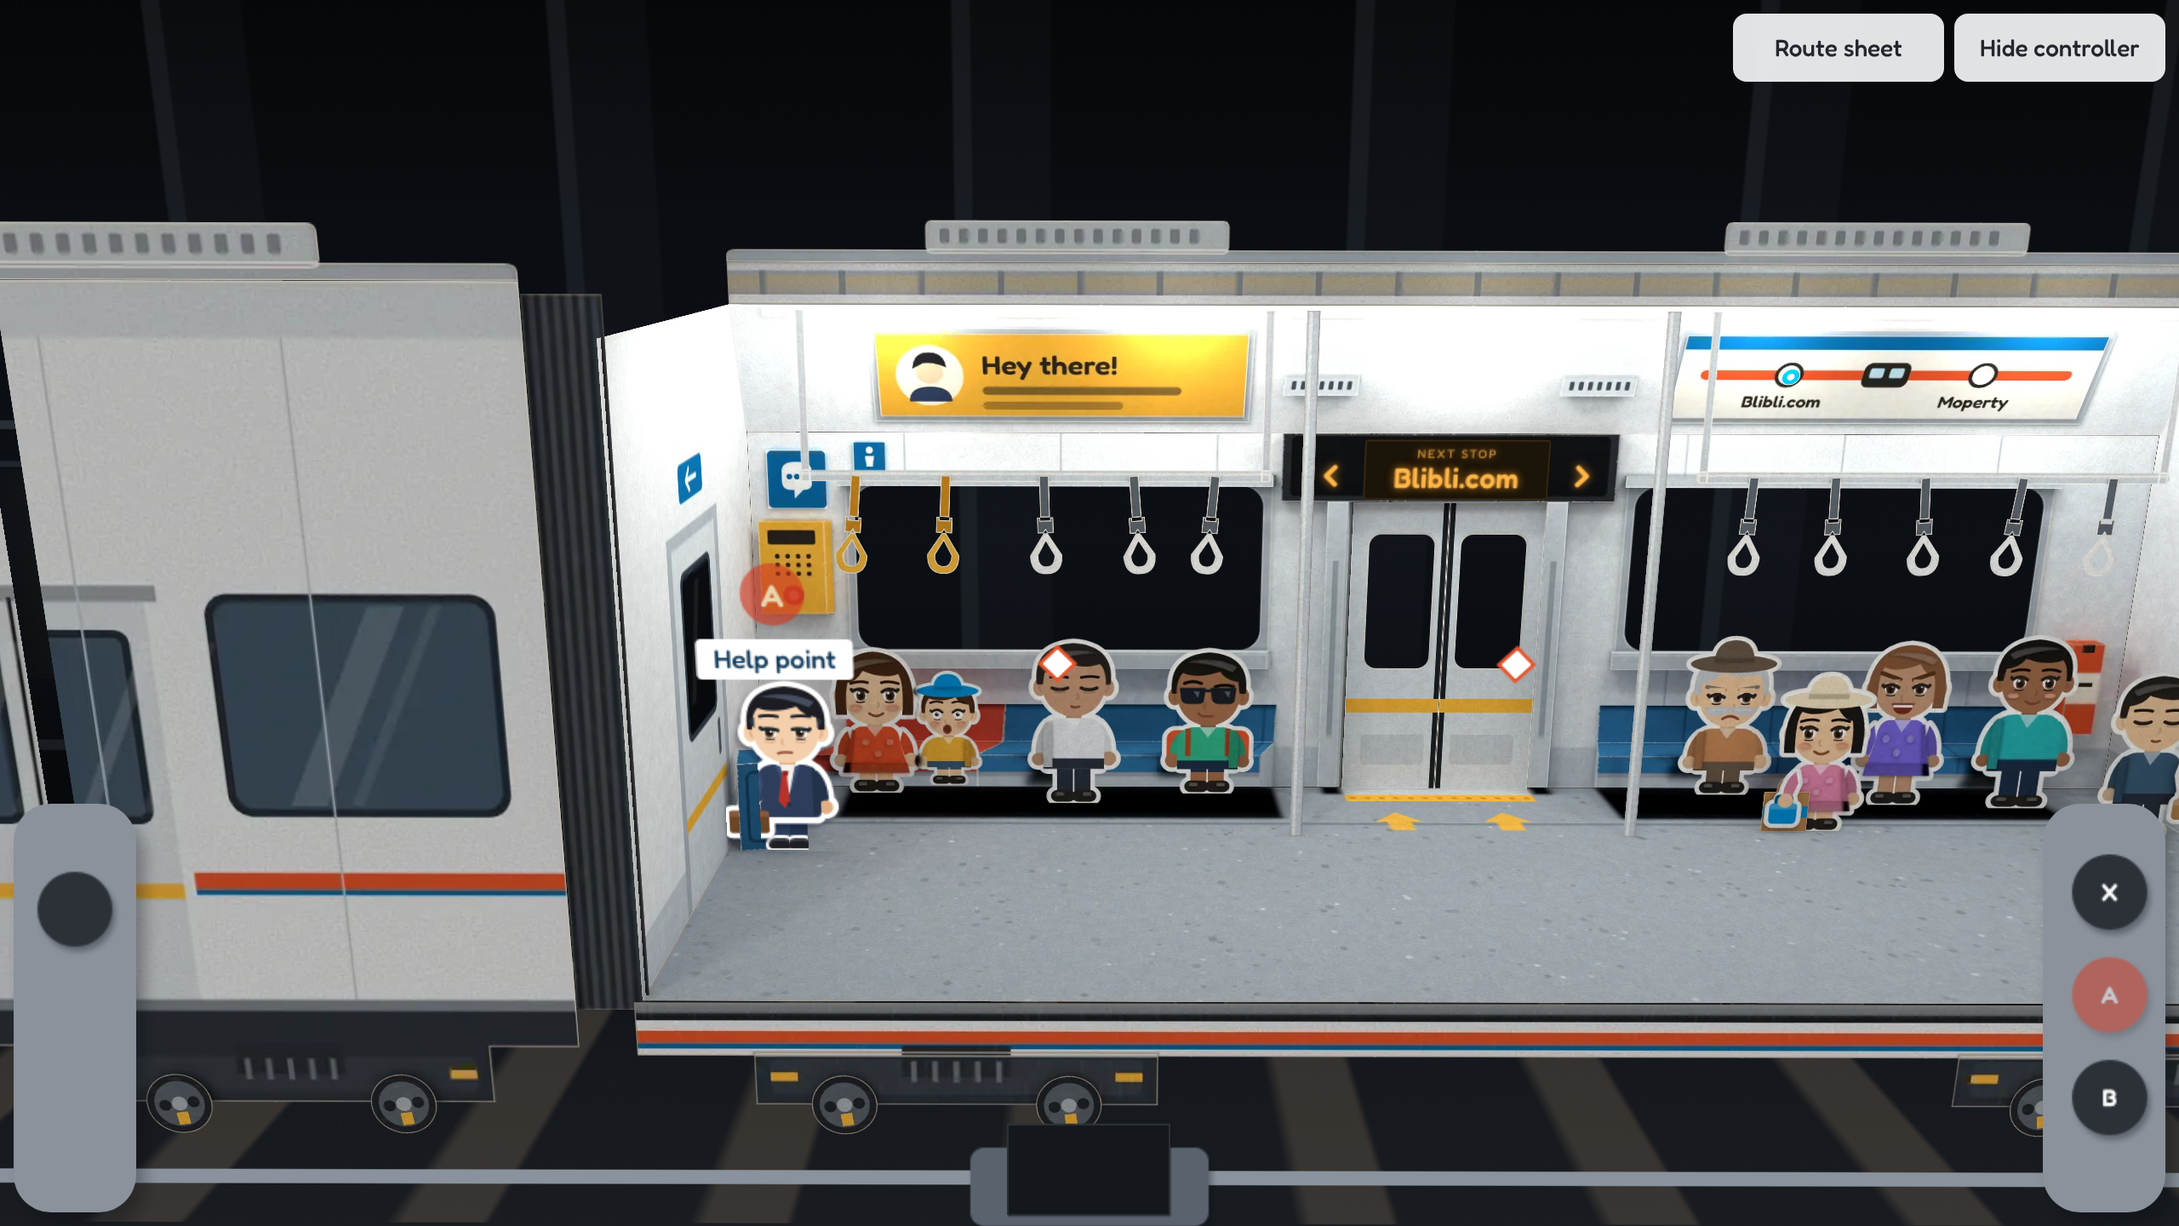
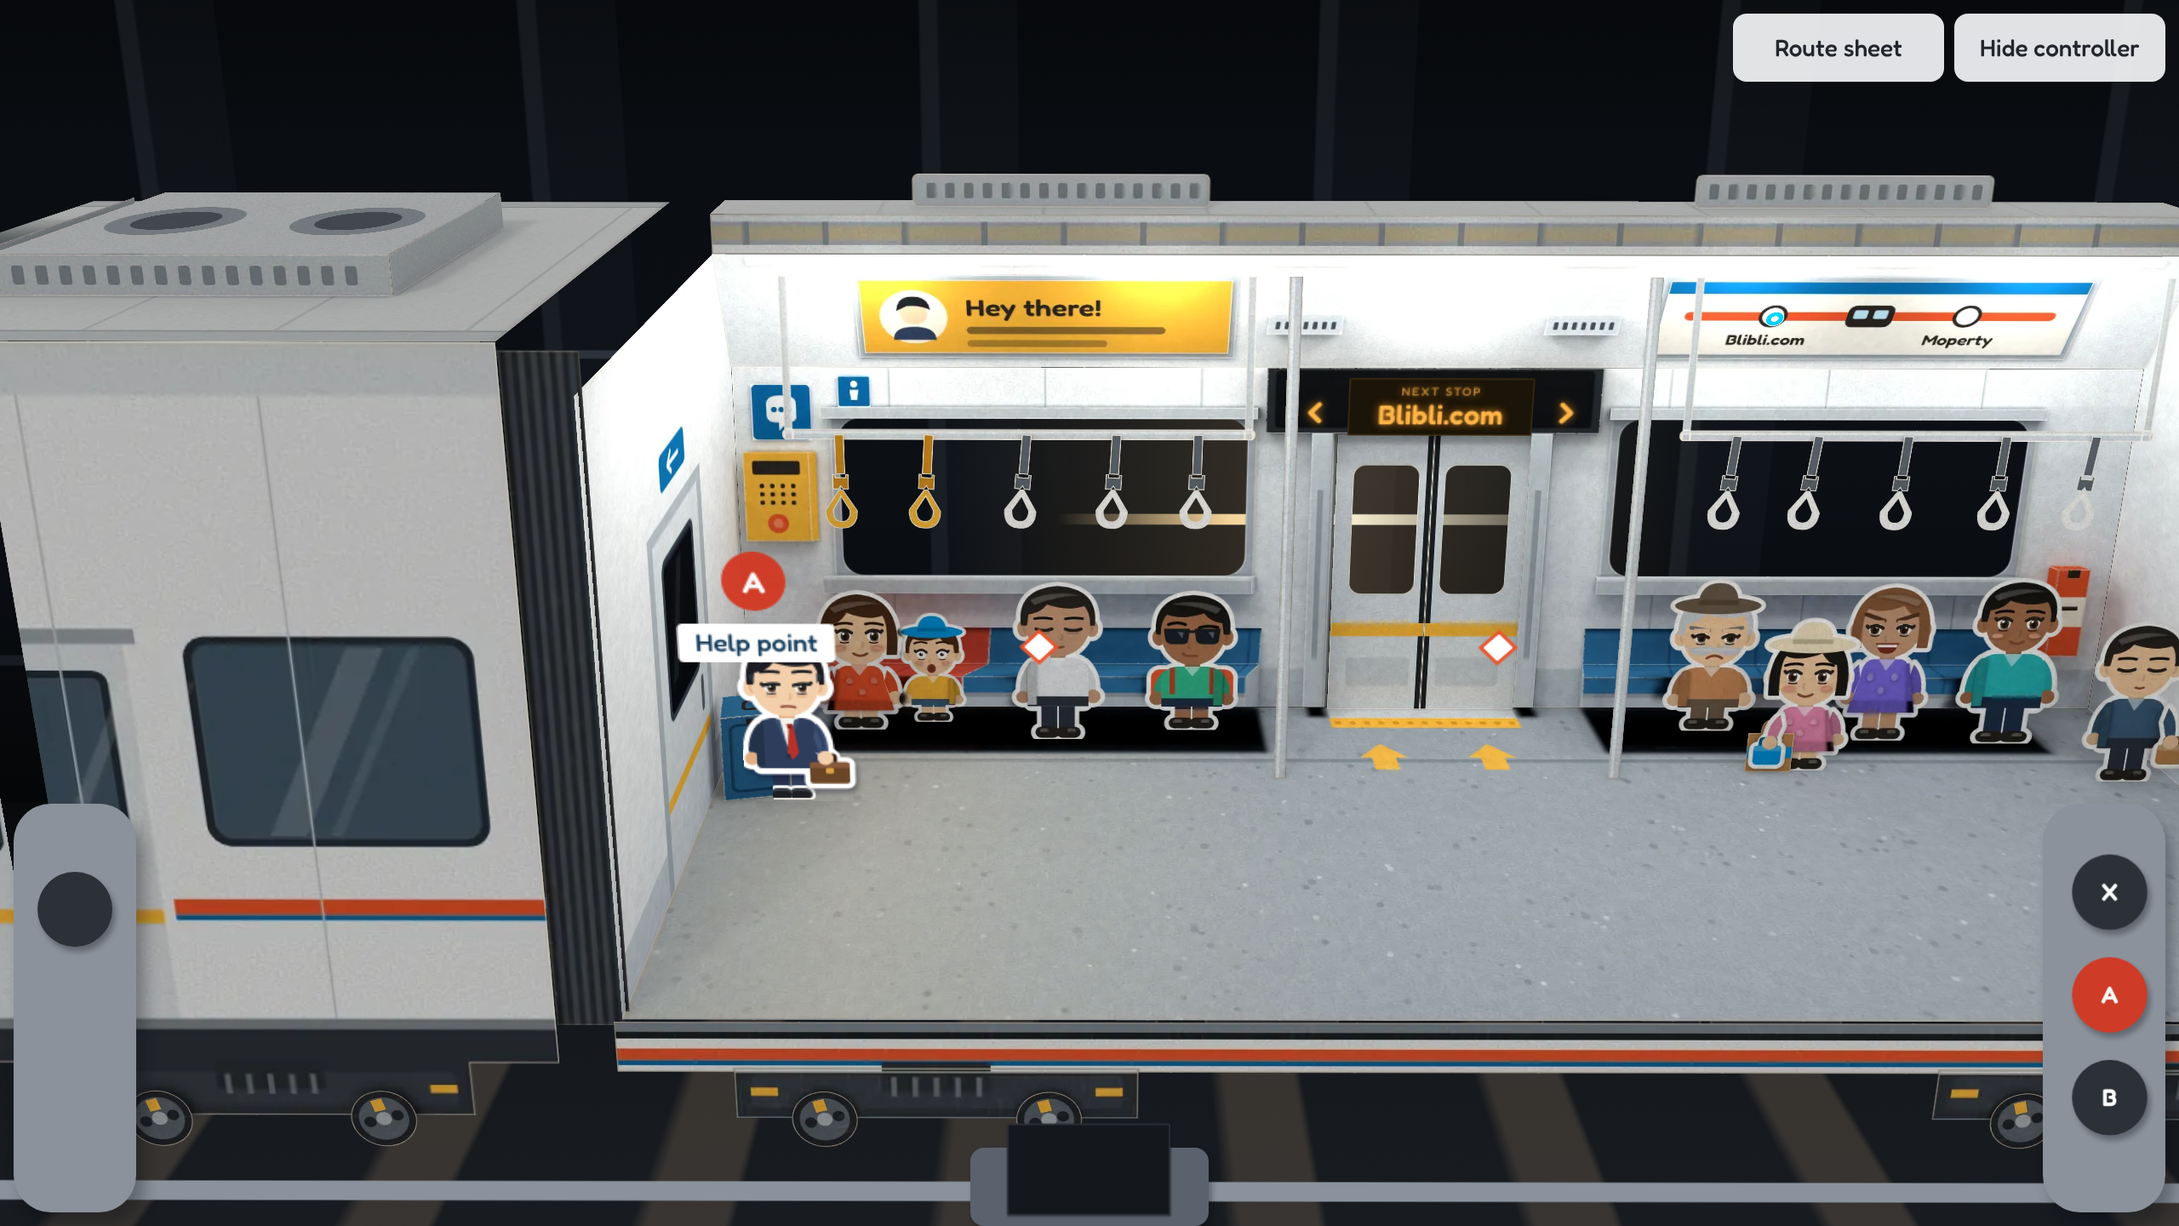
papercraft: the cab and the next car are closed boxes with roofs the camera looks down on
Each closed piece now carries a real roof: a sheet across the full depth of the car
from the top of its side, with its housings standing on it as folded boxes. The
train's camera eye is raised above roof height so those roofs show as lids receding
from the side sheets, instead of the pieces reading as side cards alone. Roof faces
are marked keep so the bake's lower camera guess does not cull them. The passenger
car stays open, with only its roof in section over the cove.

Claude-Session: https://claude.ai/code/session_01YPNotNu69U5sjo281hcv8m

diff --git a/game/src/art/scenes/train.ts b/game/src/art/scenes/train.ts
@@ -64,12 +64,18 @@ export function train(): Scene {
     motion: { spin: .34 } });
   const wheels = [...BOGIES.flatMap((b, i) => [wheel(`wheel-${i}a`, b - 58), wheel(`wheel-${i}b`, b + 58)]), wheel('wheel-cab-a', CAB.x + 82), wheel('wheel-cab-b', CAB.x + 198)];
 
-  // A roof line seen side on, the way a 2.5D model shows it: the rounded edge of the roof standing along the top of a
-  // shell, with the air-conditioning housings (each [x, width]) rising from it. The camera stands level with the
-  // roofs, so this card is what says the car is closed on top.
-  const roofCap = (id: string, x0: number, w: number, units: [number, number][]): Panel => ({ id, stock: 'cover', c: '#c9d0d6', w, h: 26, o: [x0, CAB.h, FRONT], u: [1, 0, 0], v: [0, 1, 0], edge: 'cut', density: 1.5, split: w > 400 ? Math.ceil(w / 160) : 1,
-    mask: `<path d="M0 26V22Q0 18 6 18H${w - 6}Q${w} 18 ${w} 22V26Z" fill="#fff"/>${units.map(([x, uw]) => `<rect x="${x}" width="${uw}" height="20" rx="4" fill="#fff"/>`).join('')}`,
-    print: `<rect width="${w}" height="26" fill="#c9d0d6"/><rect y="18" width="${w}" height="8" fill="#b3bcc5"/>${units.map(([x, uw]) => `<g fill="#8a939c">${Array.from({ length: Math.floor((uw - 12) / 12) }, (_, k) => `<rect x="${x + 9 + k * 12}" y="5" width="6" height="9" rx="1.5"/>`).join('')}</g>`).join('')}` });
+  // A closed piece of the train has its roof: a sheet lying across its full depth, from the near side's top edge back
+  // to the far side's, with rails along both edges and its housings standing on it as boxes ([x along the roof, width,
+  // depth]). The scene's camera looks down on it (styles.css raises the eye for this), so it is what closes the box.
+  const fans = (uw: number, ud: number) => { const n = Math.max(1, Math.round(uw / 100)), r = Math.min(ud, uw / n); return Array.from({ length: n }, (_, k) => `<circle cx="${uw * (k + .5) / n}" cy="${ud / 2}" r="${r * .34}" fill="#9aa4ae"/><circle cx="${uw * (k + .5) / n}" cy="${ud / 2}" r="${r * .22}" fill="#5b636d"/>`).join(''); };
+  const roofOn = (id: string, x0: number, w: number, units: [number, number, number][]): Panel[] => [
+    { id: `${id}-roof`, stock: 'cover', c: '#dfe4e8', w, h: D, o: [x0, CAB.h, FRONT], u: [1, 0, 0], v: [0, 0, -1], edge: 'fold', density: 1.2, split: Math.max(1, Math.ceil(w / 190)), keep: true,
+      print: `<rect width="${w}" height="${D}" fill="#dfe4e8"/><rect width="${w}" height="16" fill="#c9d0d6"/><rect y="${D - 16}" width="${w}" height="16" fill="#c9d0d6"/><path d="M0 16H${w}M0 ${D - 16}H${w}" stroke="#aab3bc" stroke-width="2"/>${Array.from({ length: Math.floor(w / 90) }, (_, k) => `<path d="M${(k + 1) * 90} 16V${D - 16}" stroke="#c3cad1" stroke-width="1.6"/>`).join('')}` },
+    ...units.flatMap(([x, uw, ud], k) => box({ id: `${id}-unit-${k}`, x: x0 + x + uw / 2, z: 0, y: CAB.h, w: uw, h: 22, d: ud, stock: 'cover', c: '#c9d0d6',
+      front: `<rect width="${uw}" height="22" fill="#c9d0d6"/><g fill="#8a939c">${Array.from({ length: Math.floor((uw - 12) / 12) }, (_, n) => `<rect x="${9 + n * 12}" y="6" width="6" height="10" rx="1.5"/>`).join('')}</g>`,
+      top: `<rect width="${uw}" height="${ud}" fill="#d4dbe1"/>${fans(uw, ud)}` })
+      .filter(q => /front|top|left|right/.test(q.id)).map(q => ({ ...q, keep: true })))
+  ];
 
   // The front of the train: past the right end wall is the driving cab, closed, seen from outside the way a model
   // shows it. A short shell with a nose sloping down to the headlight, a side window onto the desk and the driver,
@@ -90,16 +96,15 @@ export function train(): Scene {
       mask: `<path fill-rule="evenodd" d="M0 0H${CW - NOSE - 36}V${WIN_H + 8}H0Z ${rounded(4, 4, CW - NOSE - 44, WIN_H, 10)}" fill="#fff"/>` });
     // The headlight: a lit lens on the nose. Its beam is drawn live by Scene.tsx.
     const lamp = on(shell, 1.6, CW - 37, UNDER + CAB.light - 6, 24, 12, { id: 'cab-headlight', stock: 'vellum', c: '#fff6d8', emit: 3, density: 3, mask: '<rect width="24" height="12" rx="6" fill="#fff"/>' });
-    // Its roof, and the roof line seen side on with the radio housing on it.
-    const roof: Panel = { id: 'cab-roof', stock: 'cover', c: '#dfe4e8', w: CW - NOSE, h: D, o: [x0, NH, FRONT], u: [1, 0, 0], v: [0, 0, -1], edge: 'fold', density: 1, print: `<rect width="${CW - NOSE}" height="${D}" fill="#dfe4e8"/><rect x="24" y="${D / 2 - 34}" width="68" height="68" rx="6" fill="#c9d0d6"/><circle cx="58" cy="${D / 2}" r="22" fill="#9aa4ae"/>` };
-    const cap = roofCap('cab-cap', x0, CW - NOSE + 6, [[18, 96]]);
+    // Its roof, and the radio housing standing on it.
+    const roof = roofOn('cab', x0, CW - NOSE + 4, [[22, 90, 130]]);
     // The sloping windscreen, from the roof edge down the nose: dark glass with a wiper.
     const dx = NOSE - 44, dy = 152, len = Math.hypot(dx, dy);
     const screenTop: Panel = { id: 'cab-windscreen', stock: 'cover', c: '#33404d', w: len, h: D, o: [x0 + CW - NOSE, NH, FRONT], u: [dx / len, -dy / len, 0], v: [0, 0, -1], edge: 'fold', density: 1,
       print: `<rect width="${len}" height="${D}" fill="${SHELL}"/><rect x="8" y="14" width="${len - 18}" height="${D - 28}" rx="12" fill="#33404d"/><rect x="14" y="20" width="${len - 30}" height="${D - 40}" rx="9" fill="#4f6578"/><path d="M${len * .62} ${D / 2}L${len * .2} ${D / 2 - 64}" stroke="${INK}" stroke-width="4"/>` };
     // The nose below the windscreen, front on: where the coupler sits.
     const noseFace: Panel = { id: 'cab-nose', stock: 'cover', c: SHELL_DARK, w: D, h: NH - 62 + 0, o: [x0 + CW, 0, FRONT], u: [0, 0, -1], v: [0, 1, 0], edge: 'fold', density: .9, ghost: true };
-    return [shell, frame, lamp, roof, cap, screenTop, noseFace];
+    return [shell, frame, lamp, ...roof, screenTop, noseFace];
   };
   // The car behind, past the left end wall: closed too, the same shell with glass windows, a door, its roof and the
   // bogie at its near end. Between the two cars hangs the gangway bellows.
@@ -113,19 +118,19 @@ export function train(): Scene {
         + `<rect y="${NH - 70}" width="232" height="9" fill="${LIVERY}"/><rect y="${NH - 61}" width="232" height="3" fill="${DEEP}"/><rect x="374" y="${NH - 70}" width="${NW - 374}" height="9" fill="${LIVERY}"/><rect x="374" y="${NH - 61}" width="${NW - 374}" height="3" fill="${DEEP}"/>`
         + Array.from({ length: 4 }, (_, k) => `<path d="M${(k + 1) * NW / 5} 26V${NH}" stroke="#c3cad1" stroke-width="1.2"/>`).join('')
         + `<rect y="${NH}" width="${NW}" height="${UNDER}" fill="#2f353d"/><rect y="${NH}" width="${NW}" height="6" fill="#7e8893"/>${bogie(bog, NH)}` };
-    const roof: Panel = { id: 'rear-roof', stock: 'cover', c: '#dfe4e8', w: NW, h: D, o: [x0, NH, FRONT], u: [1, 0, 0], v: [0, 0, -1], edge: 'fold', density: 1, split: 2,
-      print: `<rect width="${NW}" height="${D}" fill="#dfe4e8"/>${Array.from({ length: 5 }, (_, k) => `<path d="M${(k + 1) * NW / 6} 0V${D}" stroke="#c3cad1" stroke-width="1.4"/>`).join('')}` };
-    const cap = roofCap('rear-cap', x0, NW, [[60, 190], [NW - 290, 200]]);
+    const roof = roofOn('rear', x0, NW, [[70, 200, 150], [NW - 280, 200, 150]]);
     const bellows: Panel = { id: 'bellows', stock: 'greyboard', c: '#2b3037', w: 38, h: NH + 8, o: [-W / 2 - 36, -14, FRONT - 6], u: [1, 0, 0], v: [0, 1, 0], edge: 'fold', density: 1.4, print: `<rect width="38" height="${NH + 8}" fill="#2b3037"/>${Array.from({ length: 6 }, (_, k) => `<rect x="${3 + k * 6}" width="3" height="${NH + 8}" fill="#4a5059"/>`).join('')}` };
-    return [shell, roof, cap, bellows, wheel('wheel-rear-a', x0 + bog - 58), wheel('wheel-rear-b', x0 + bog + 58)];
+    return [shell, ...roof, bellows, wheel('wheel-rear-a', x0 + bog - 58), wheel('wheel-rear-b', x0 + bog + 58)];
   };
   // Our own car is cut open along its near side, but it has its roof: it shows in section over the cove, and on it
   // the air-conditioning housings, so the three pieces of the train stand at one height.
   const ROOF_Z = BACK + COVE_IN;
   const roofCut: Panel = { id: 'roof-cut', stock: 'greyboard', c: '#9aa4ae', w: W, h: NH - CAR.CEIL, o: [-W / 2, CAR.CEIL, ROOF_Z], u: [1, 0, 0], v: [0, 1, 0], edge: 'cut', density: 1.5, split: 4,
     print: `<rect width="${W}" height="${NH - CAR.CEIL}" fill="#aab3bc"/><rect width="${W}" height="5" fill="#dfe4e8"/><rect y="8" width="${W}" height="9" fill="#c3b79c"/><rect y="${NH - CAR.CEIL - 6}" width="${W}" height="6" fill="#f4f6f8"/>${Array.from({ length: Math.floor(W / 50) }, (_, k) => `<rect x="${k * 50 + 20}" y="5" width="4" height="${NH - CAR.CEIL - 11}" fill="#8a939c"/>`).join('')}` };
-  const roofTop: Panel = { id: 'roof-top', stock: 'cover', c: '#dfe4e8', w: W, h: COVE_IN + 8, o: [-W / 2, NH, ROOF_Z], u: [1, 0, 0], v: [0, 0, -1], edge: 'fold', density: 1.1, split: 4, print: `<rect width="${W}" height="${COVE_IN + 8}" fill="#dfe4e8"/>${Array.from({ length: 8 }, (_, k) => `<path d="M${(k + 1) * W / 9} 0V${COVE_IN + 8}" stroke="#c3cad1" stroke-width="1.4"/>`).join('')}` };
-  const ownCap = { ...roofCap('roof-cap', -W / 2, W, [[W / 2 - 345, 190], [W / 2 + 155, 190]]), o: [-W / 2, NH, ROOF_Z] as V3 };
+  const roofTop: Panel = { id: 'roof-top', keep: true, stock: 'cover', c: '#dfe4e8', w: W, h: COVE_IN + 8, o: [-W / 2, NH, ROOF_Z], u: [1, 0, 0], v: [0, 0, -1], edge: 'fold', density: 1.1, split: 4, print: `<rect width="${W}" height="${COVE_IN + 8}" fill="#dfe4e8"/>${Array.from({ length: 8 }, (_, k) => `<path d="M${(k + 1) * W / 9} 0V${COVE_IN + 8}" stroke="#c3cad1" stroke-width="1.4"/>`).join('')}` };
+  const ownCap: Panel = { id: 'roof-cap', stock: 'cover', c: '#c9d0d6', w: W, h: 22, o: [-W / 2, NH, ROOF_Z - 20], u: [1, 0, 0], v: [0, 1, 0], edge: 'cut', density: 1.5, split: 6,
+    mask: [-250, 250].map(x => `<rect x="${bx(x) - 95}" width="190" height="22" rx="4" fill="#fff"/>`).join(''),
+    print: `<rect width="${W}" height="22" fill="#c9d0d6"/>${[-250, 250].map(x => `<g fill="#8a939c">${Array.from({ length: 15 }, (_, k) => `<rect x="${bx(x) - 86 + k * 12}" y="6" width="6" height="10" rx="1.5"/>`).join('')}</g>`).join('')}` };
   const ownRoof = [roofCut, roofTop, ownCap];
 
   // The ceiling, facing down: plain panels and two recessed grilles. The light strip sits where it meets the cove.

diff --git a/game/tools/paper/build.ts b/game/tools/paper/build.ts
@@ -73,7 +73,7 @@ async function build(scene: Scene, samples: number) {
   await browser.close();
   const layout = {
     id: scene.id, atlas: { w: ATLAS_W, h: height }, sunToLight: SUN_TO_LIGHT, samples, light: scene.light, lamps: scene.lamps ?? [], camera: scene.camera, runs: scene.runs ?? [],
-    panels: slots.map(({ panel: p, x, y, pw, ph }) => ({ id: p.id, stock: p.stock, transl: STOCK[p.stock].transl, emit: p.emit ?? 0, c: p.c, solid: !p.mask, o: p.o, u: p.u, v: p.v, w: p.w, h: p.h, ghost: !!p.ghost, backdrop: !!p.backdrop, decal: p.decal ?? null, view: !!p.view, motion: p.motion ?? null, group: p.group ?? null, show: p.show ?? null, split: p.split ?? 1, x, y, pw, ph, n: normal(p) }))
+    panels: slots.map(({ panel: p, x, y, pw, ph }) => ({ id: p.id, stock: p.stock, transl: STOCK[p.stock].transl, emit: p.emit ?? 0, c: p.c, solid: !p.mask, o: p.o, u: p.u, v: p.v, w: p.w, h: p.h, ghost: !!p.ghost, backdrop: !!p.backdrop, decal: p.decal ?? null, view: !!p.view, motion: p.motion ?? null, group: p.group ?? null, show: p.show ?? null, keep: !!p.keep, split: p.split ?? 1, x, y, pw, ph, n: normal(p) }))
   };
   writeFileSync(join(WORK, 'layout.json'), JSON.stringify(layout));
   if (PREVIEW) execFileSync('python3', ['-c', `import numpy as n;n.save(${JSON.stringify(join(WORK, 'light.npy'))},n.full((${Math.round(height / 2)},${ATLAS_W / 2},3),.82,dtype=n.float32))`]);

diff --git a/game/src/content.ts b/game/src/content.ts
@@ -16,7 +16,7 @@ export const content: Content = validateContent({ worlds: {
   intro: { id: 'intro', art: 'blockout', bounds: { x0: -420, x1: 420, z0: 0, z1: 0 }, solid: [], title: 'Handheld', path: 'round', color: '#8d95a0',
     stops: [{ id: 'road-end', label: 'Dock', x: 400, z: 0, reach: 300, action: { kind: 'dock' } }], letters: [] },
   // Home: the inside of an MRT car on its way. The sign over the door chooses the stop; the doors get off there.
-  mrt: { id: 'mrt', art: 'train', camera: { zoom: 1.12, x0: -320, x1: 480, lift: 186, liftTall: 90, ahead: 190 }, bounds: { x0: -430, x1: 430, z0: -40, z1: 110 }, solid: [], title: 'MRT', path: 'round', color: '#8d95a0',
+  mrt: { id: 'mrt', art: 'train', camera: { zoom: 1.12, x0: -320, x1: 480, lift: 210, liftTall: 130, ahead: 190 }, bounds: { x0: -430, x1: 430, z0: -40, z1: 110 }, solid: [], title: 'MRT', path: 'round', color: '#8d95a0',
     stops: [
       { id: 'door', label: 'Doors', x: 0, z: -40, reach: 110, action: { kind: 'ride', toy: 'line', to: [
         { world: 'blibli', stop: 'mailbox', label: 'Blibli.com' }, { world: 'moperty', stop: 'first-house', label: 'Moperty' } ] } },

diff --git a/game/src/styles.css b/game/src/styles.css
@@ -182,7 +182,7 @@ button { font:inherit; cursor:pointer; }
 
 /* ---------- the MRT car: a close-up of its inside, running underground ---------- */
 .car { position:absolute; left:0; top:0; width:0; height:0; transform-style:preserve-3d; }
-.art-train { background:#040506; perspective-origin:50% 46%; }
+.art-train { background:#040506; perspective-origin:50% 18%; }
 /* The car rocks on its springs and knocks over each rail joint for as long as it runs. Scene.tsx sets the rate of
    every one of these loops from the train's speed, so they pull away and brake together. */
 .art-train .car { transform-origin:0 0; animation:car-sway 2.7s ease-in-out infinite alternate,car-jolt .92s linear infinite; }

diff --git a/game/src/art/kit.ts b/game/src/art/kit.ts
@@ -4,6 +4,8 @@ export type Panel = {
   id: string; stock: Stock; c: string; o: V3; u: V3; v: V3; w: number; h: number;
   mask?: string; print?: string; edge?: 'cut' | 'fold'; ghost?: boolean; density?: number; decal?: string;
   emit?: number; motion?: Motion; group?: string; backdrop?: boolean; show?: Show;
+  // Never culled by the bake's guess at what the game camera sees: for faces a scene knows its own view shows.
+  keep?: boolean;
   // Ship this sheet as `split` side-by-side tiles: browsers stop drawing one very wide plane seen edge-on.
   split?: number;
   // With `decal`: painted onto the parent as the game camera sees it, not straight along the parent's normal.

diff --git a/game/tools/paper/finish.py b/game/tools/paper/finish.py
@@ -188,7 +188,7 @@ L["atlas"]["h"] = keep.shape[0]
 Image.fromarray((keep * 255 + 0.5).astype(np.uint8), "RGBA").save(OUT / "atlas.webp", quality=80, method=6, alpha_quality=85)
 
 def seen(p):
-    if p["group"] or p["motion"] or p.get("show"):
+    if p["group"] or p["motion"] or p.get("show") or p.get("keep"):
         return True
     u, v = (np.array(p[k], dtype=float) for k in "uv")
     u, v = u / np.linalg.norm(u), v / np.linalg.norm(v)

diff --git a/game/docs/ART_BIBLE.md b/game/docs/ART_BIBLE.md
@@ -137,7 +137,8 @@ The game opens inside the front car of an MRT train running underground (`scenes
 ![The car behind](spaces/mrt-rear.png)
 
 - **What is built.** Three pieces of one train, standing at one height. In the middle, the passenger car, cut open along its near side: its inside, its underframe in section along the cut with two bogies, and its roof in section over the cove. To the right, the driving cab; to the left, past the gangway bellows, the next car. Those two are closed and seen from outside, 2.5D: a shell with glass windows that show nothing through them, a roof line seen side on with its housings, and a bogie.
-- **Closed pieces stay closed.** The camera stands level with the roofs, so a roof's top is edge on to it. What says "this has a roof" is the roof line card along the top of each shell; never leave a shell open at the top or show an interior through its glass.
+- **Closed pieces are boxes, not cards.** The cab and the next car each carry a roof: a sheet lying across the full depth of the car from the top of the near side, with its housings standing on it as folded boxes. The train's camera looks down from above roof height (`perspective-origin` on `.art-train`), so the roof shows as a lid receding from the side sheet. A closed piece must never show as a side sheet alone, and its glass shows nothing through it. Roof faces are marked `keep`, because the bake's guess at the game camera sits lower than this scene's and would cull them.
+- **The passenger car stays open.** Only its roof in section shows, over the cove at the back.
 - **The tunnel is live, not baked** (`.bore`, `.bed` in `styles.css`). Behind the whole train stands the tunnel's far wall, nearly black, with rings, cable runs, work lamps and marker boards rushing back. Under it lies the track bed: two rails and sleepers streaking by. The headlight throws a beam down the tunnel ahead, and the lamps' light sweeps over the car floor.
 - **Everything that says "moving" runs at one speed.** The tunnel, the sleepers, the eight wheels (their own sheets, turning), the car's sway and its knock over rail joints, and the swinging hand straps are looping animations whose rate `Scene.tsx` sets from the train's speed. The train pulls away as the scene opens, cruises, and brakes to a stand when it reaches the chosen stop. Reduced motion holds all of it still.
 - No sun reaches the car. It is lit by its own ceiling strips, baked as lamps.
@@ -182,7 +183,7 @@ Measured on the worst case: software GPU, 4x CPU throttle, DPR 2.625, landscape.
 | Space | Quad limit, enforced by the journey test |
 |---|---|
 | Street (riverside promenade) | 210 (uses 209) |
-| MRT car | 125 (uses 109) |
+| MRT car | 140 (uses 124) |
 | First-floor outlet | 75 |
 | Second-floor store-room | 115 |
 
